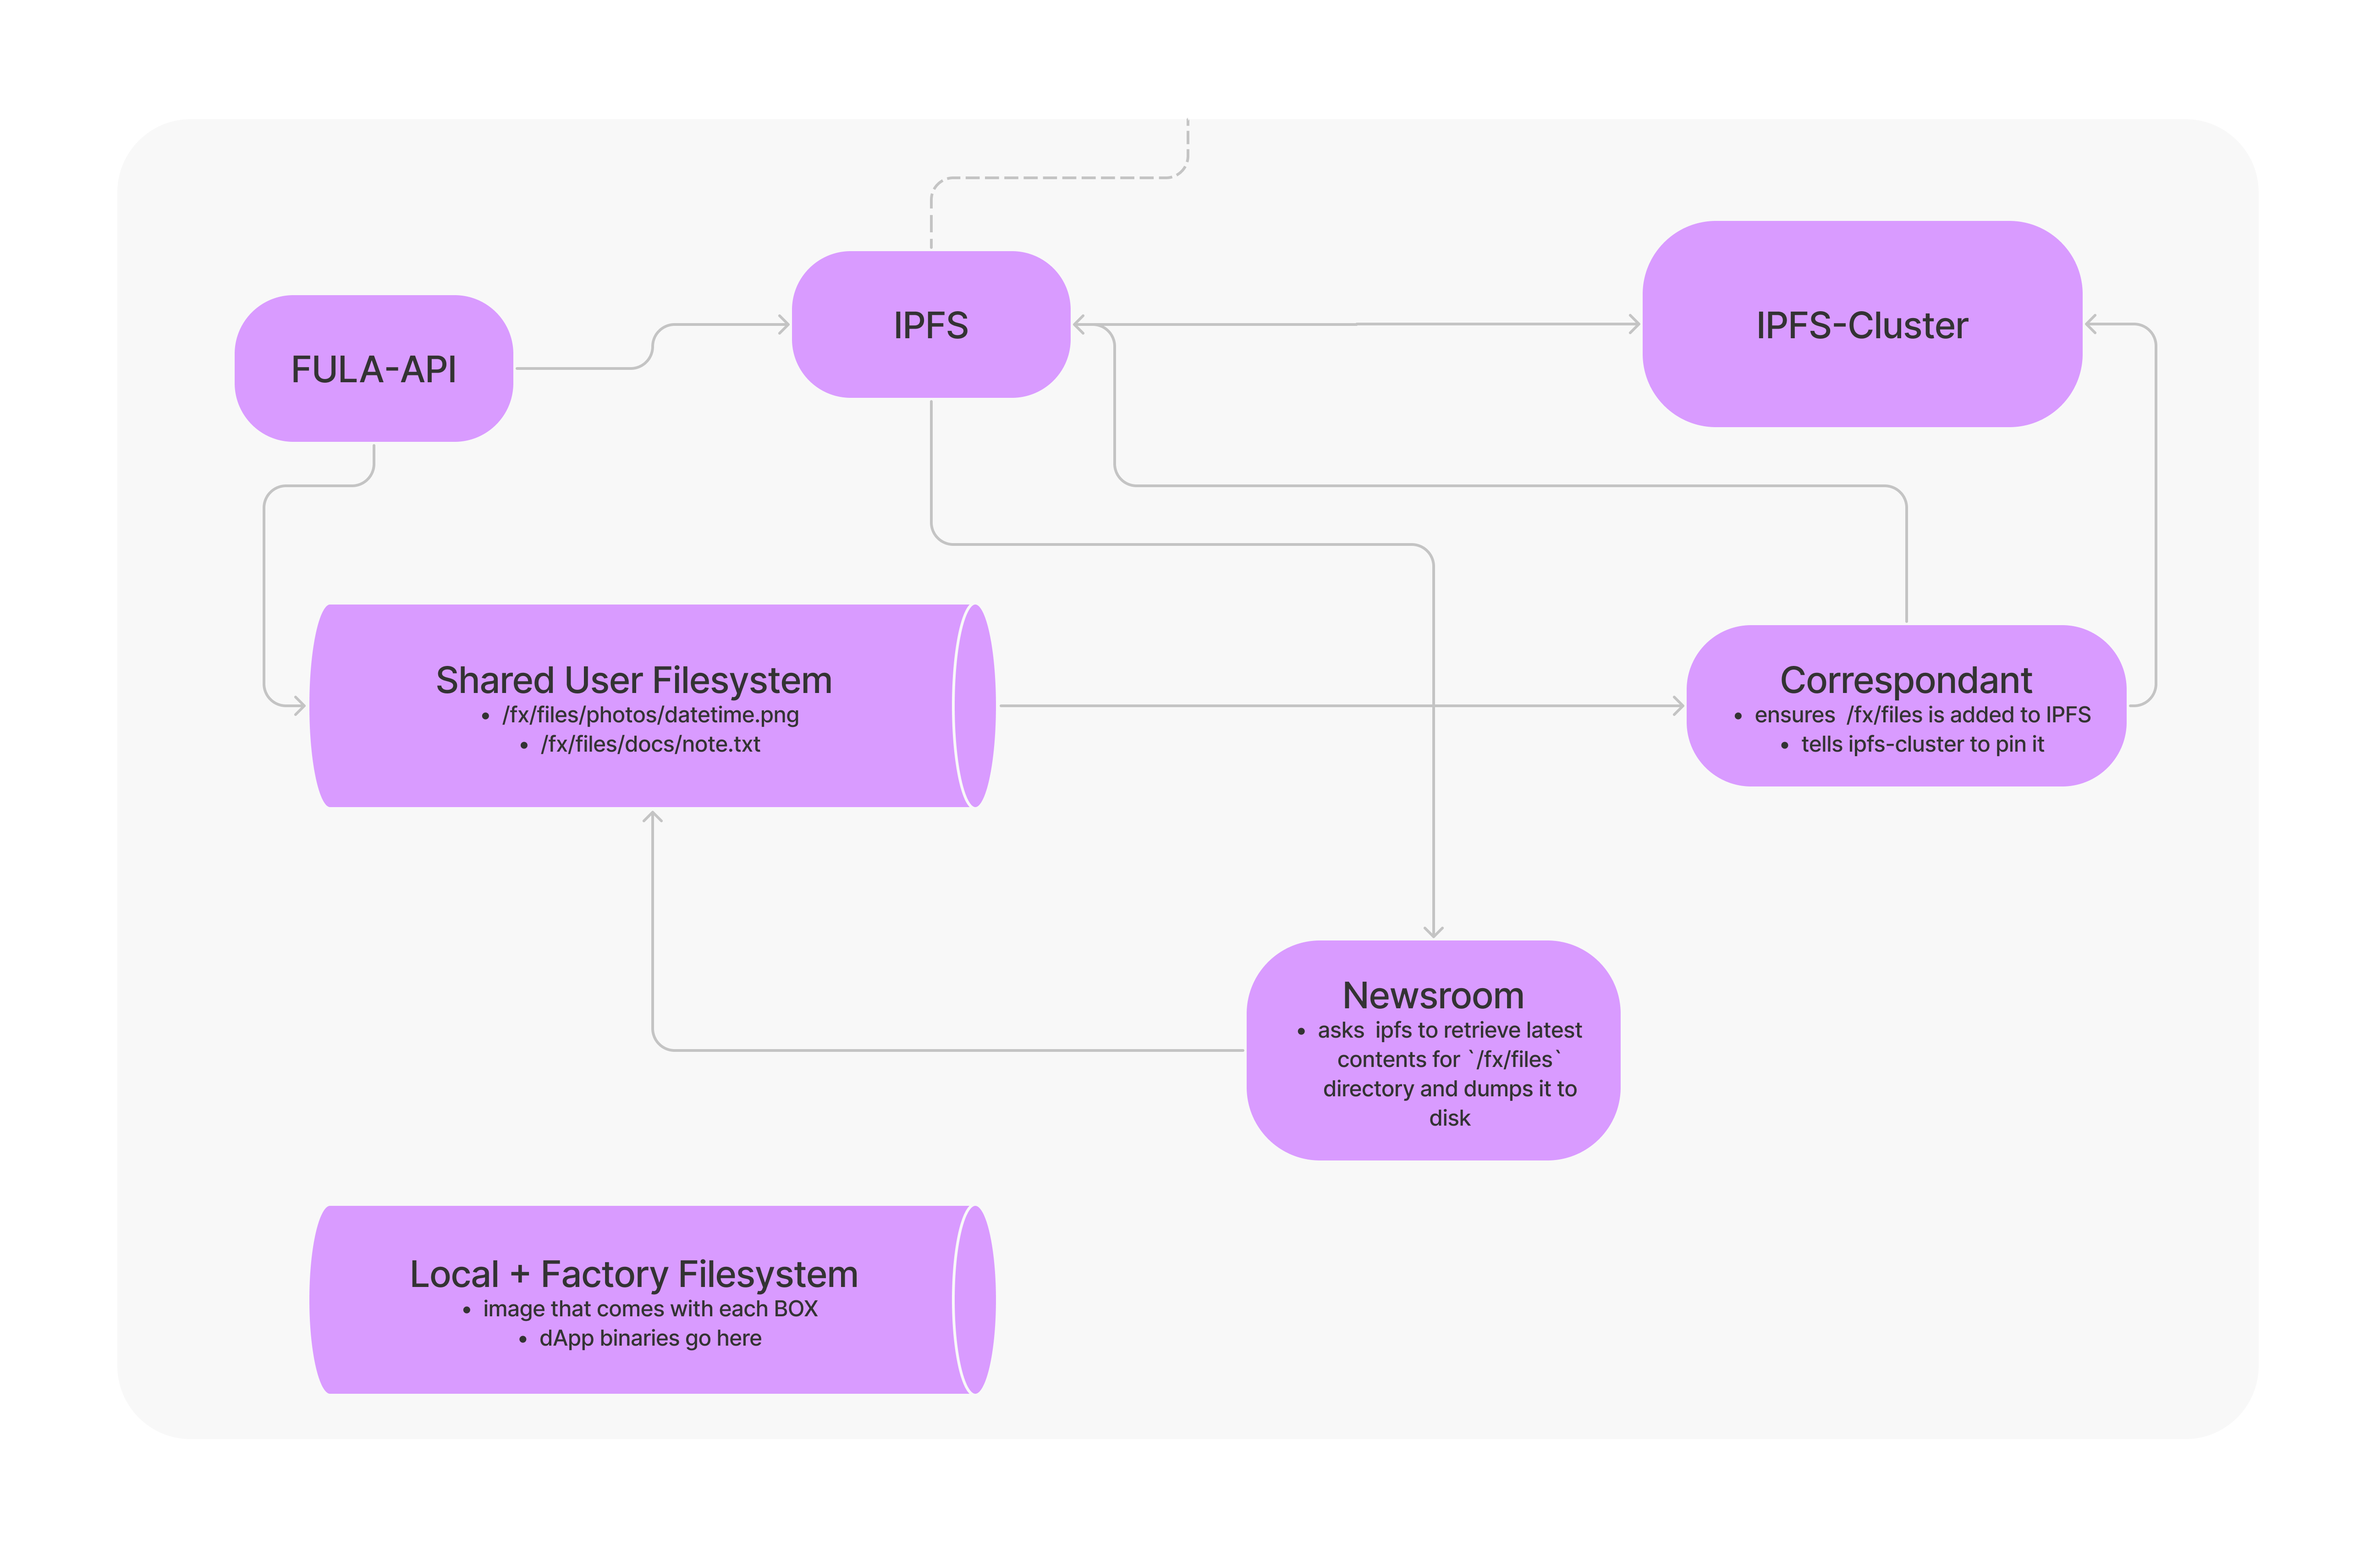
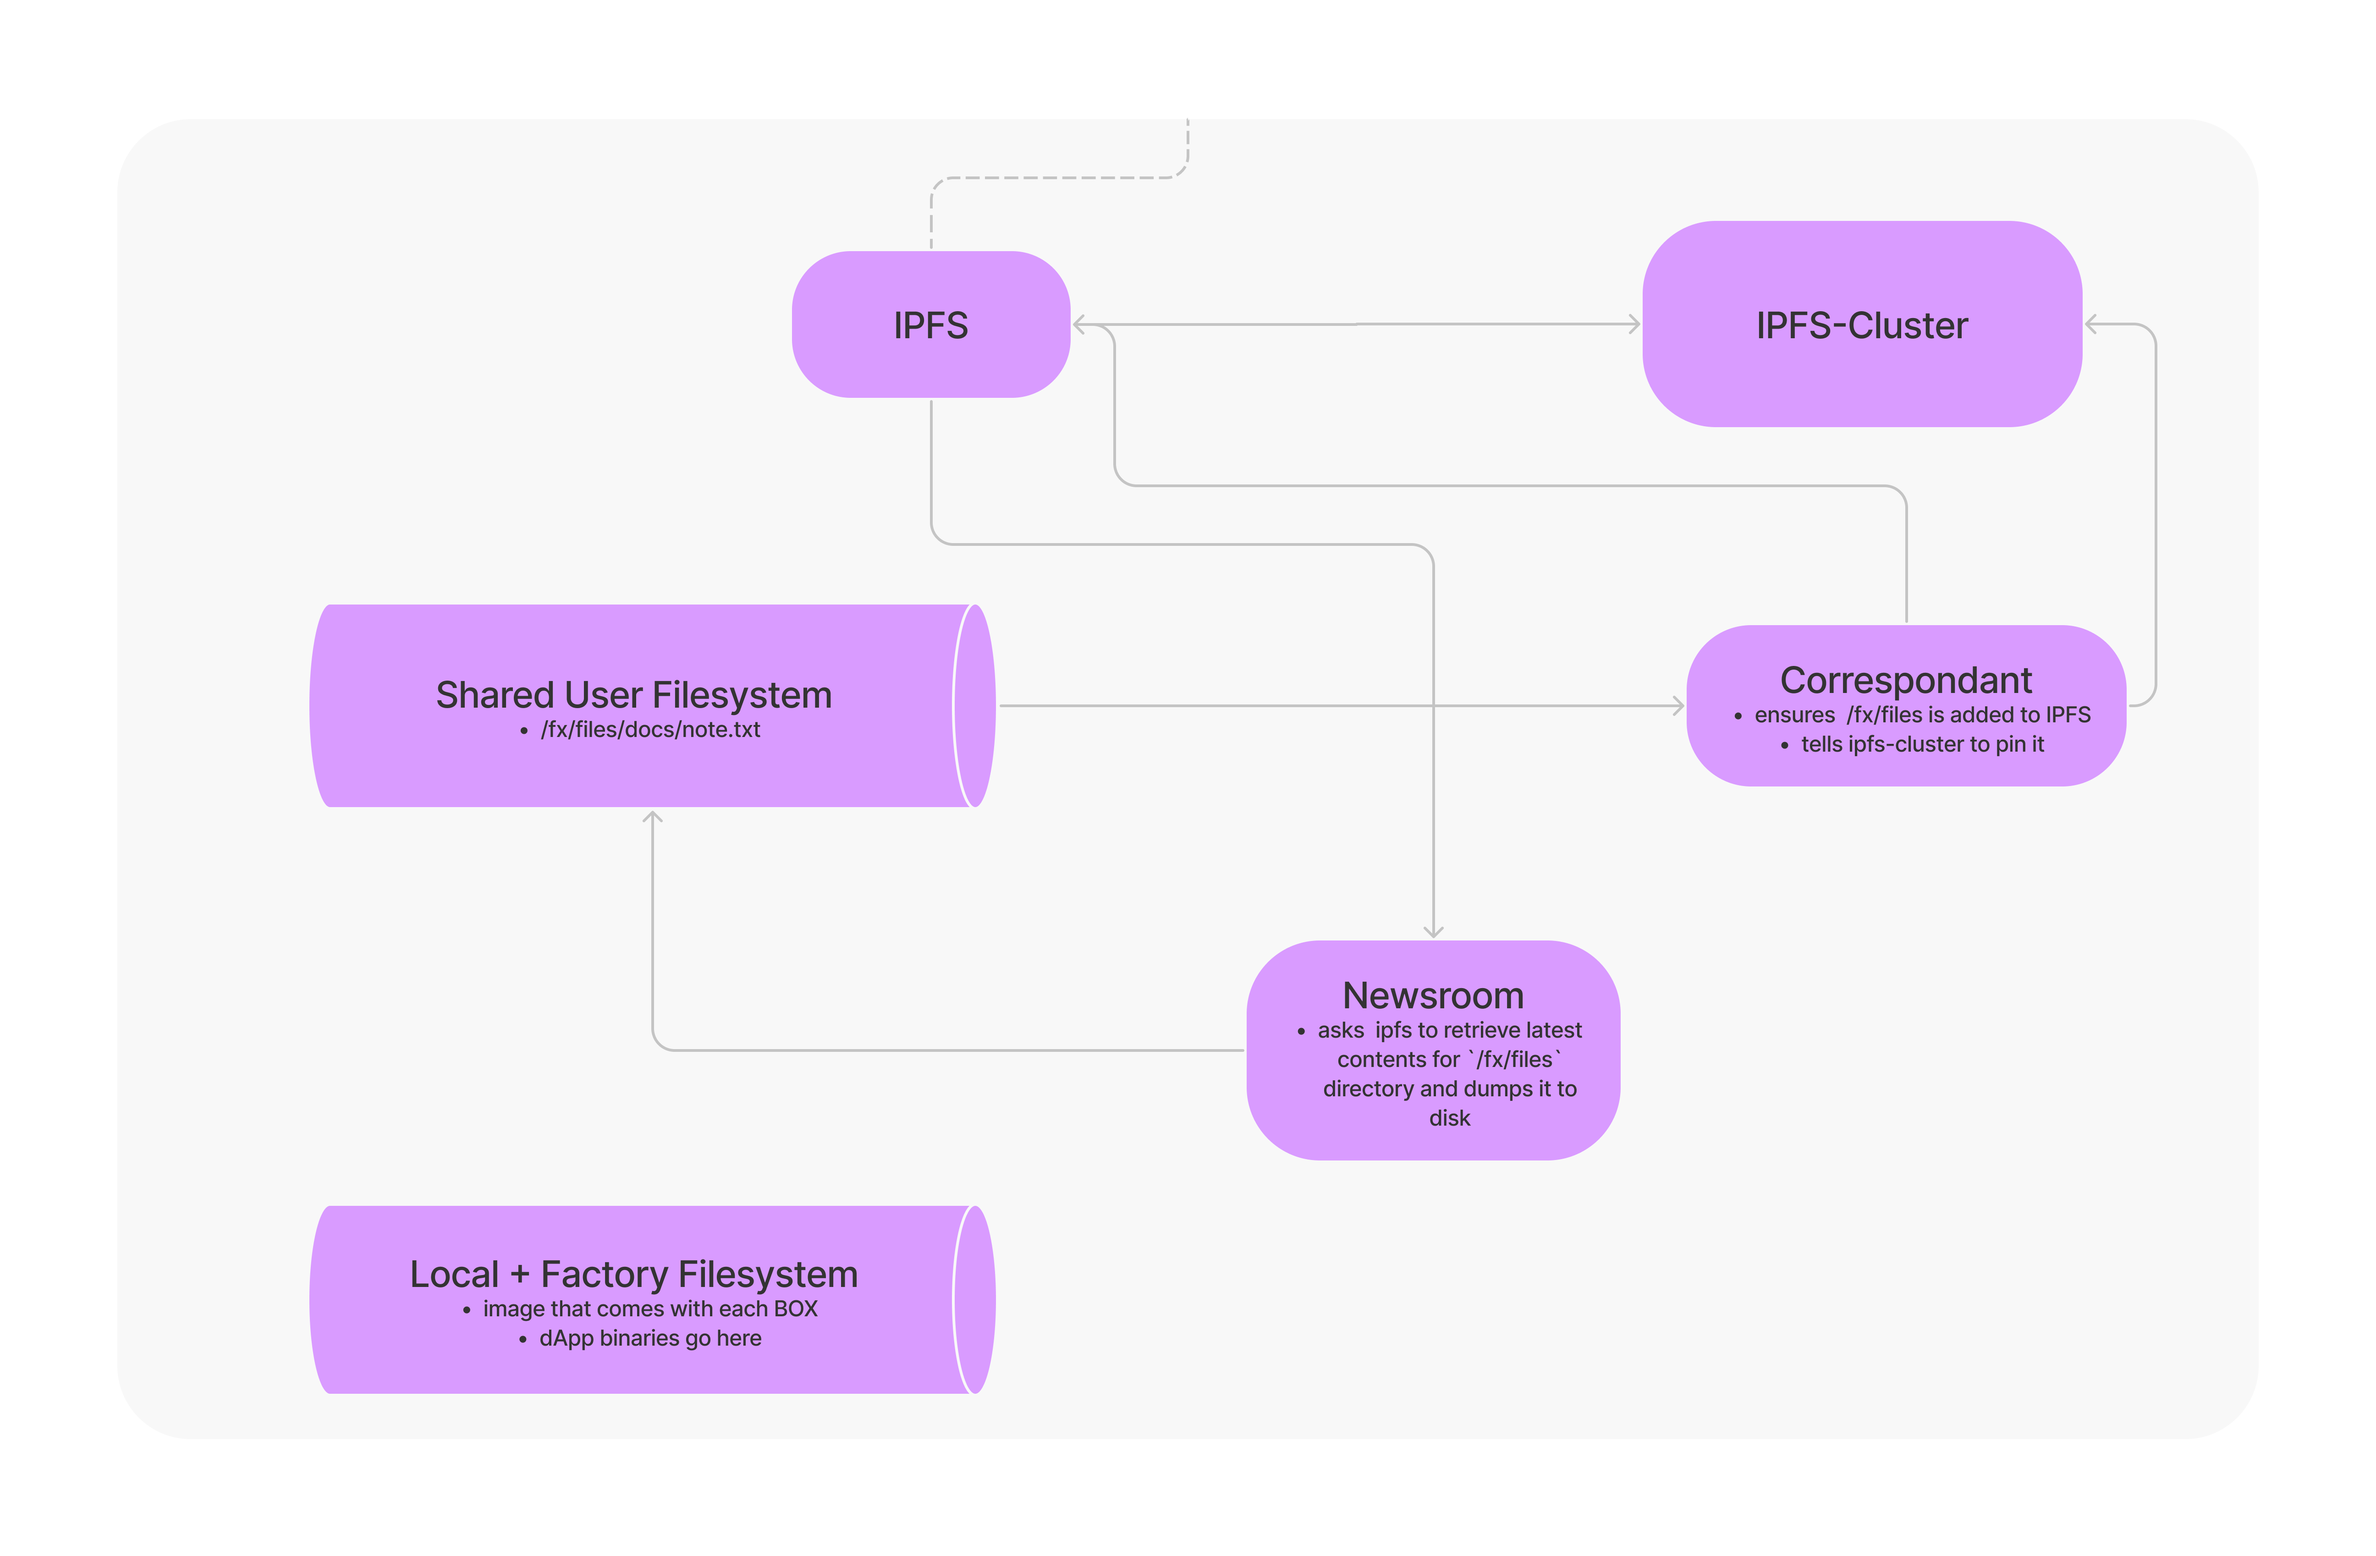
second draft of document syncing (#66)

Changed region(s): [[0.0938, 0.1873, 0.2188, 0.3122], [0.1875, 0.4371, 0.3438, 0.4996]]

diff --git a/docs/RFCs/document-syncing.md b/docs/RFCs/document-syncing.md
@@ -1,4 +1,4 @@
-# Document Syncing over IPFS-Cluster with a Correspondant and Newsroom
+# Document Syncing
 - Start Date: 2022-03-24
 - RFC PR: [functionland/docs/pull/61](https://github.com/functionland/docs/pull/61)
 - Functionland Issue: [functionland/docs/issues/58](https://github.com/functionland/docs/issues/58)
@@ -8,21 +8,15 @@
 
 ## Summary
 
-This RFC proposes usage of IPFS-Cluster in conjunction with two separate components on a BOX to sync files and folders across several different BOXes.
+This RFC proposes usage of `IPFS-Cluster` in conjunction with a `Correspondant` and `Newsroom` component to sync files and folders across several devices.
 
 ## Use Case
 
-A person owns several BOXes and they add a document to one of them.
+A BOX owner would like to sync the meeting notes on their desktop with other meeting participants in real time.
 
-The document immediately gets transferred over to the other BOX so that they can make use of it (ie/ perform CRUD operations on it) from either BOX.
+They run a command and provide instructions for other participants to download the document.
 
-The 'documents' being synced (for now) are:
-
-    * plaintext (eg/ UTF-8 encoded) files
-
-    * photos
-
-    * video
+Each participant is able to download and edit the meeting notes and see updates from others in real time.
 
 
 ## Out of Scope
@@ -34,9 +28,15 @@ The 'documents' being synced (for now) are:
 ## Pre-conditions
 [pre-conditions]: #pre-conditions
 
-* the owner has already authenticated themselves with each BOX
+* each participant's device in the meeting is accessible from the others
 
-* the fula-api is persisting data to a disk accessible by the correspondant and newsroom processes
+      EITHER
+
+      * they have a public static IP 
+
+      OR
+
+      * NAT hole punching works AND there are relays available to help establish connectivity
 
 ## Design Considerations
 
@@ -68,7 +68,7 @@ CRDT will be used because:
 
   * 'trusted peers' might be used in the future to provide access control
 
-  * peers will probably come and go frequently in the future when data is synced with external devices (ie/ owner's computer or phone)
+  * peers will probably come and go frequently (ie/ someone needs to drop from the meeting)
 
   * since we have full control over the document store, we can ensure the DAG is shallow (based on limitations of number of files in a directory)
 
@@ -119,8 +119,6 @@ In order to access ipfs-cluster-ctl and ipfs from the command line, the correspo
 
 A separate service will be defined for:
 
-  * fula-api
-
   * newsroom
 
   * correspondant
@@ -135,15 +133,9 @@ The docker setup for the IPFS components can be followed from the  [IPFS-Cluster
 
 The IPFS components should be listed as a dependency of the correspondant and newsroom.
 
-The correspondant and newsroom components should be listed as a dependency of the fula-api.
+## Future 
 
-## Drawbacks / Future Improvements
-
-The main drawback of this design is it will require redundant storage with IPFS and a flat file system.  A future improvement might be just to interact with IPFS and IPFS-Cluster for pinning directly from the fula-api.
-
-In that case there would be no need for both the `correspondent` or `newsroom` components on each BOX, however, they could still be utilized for desktop file/folder syncing.
-
-## Future Performance Optimizations
+### Performance Optimizations
 
 * a scheduler might be used to prioritize fula-api latency over syncing
 
@@ -155,13 +147,28 @@ In that case there would be no need for both the `correspondent` or `newsroom` c
 
   * this may be necessary for handling removal of files anyway
 
+### Connectivity Research
 
-## Future Possibilities
+The main goal is to remove the connectivity pre-condition from this use case so it will work from any device over the vast majority of network topologies.
+
+The following issues are related to this:
+
+  * [research: fula-client overcoming NAT to reach fula-api](https://github.com/functionland/docs/issues/28)
+
+  * [research: public/private relays availability](https://github.com/functionland/docs/issues/72)
+
+### Possibilities
 [future-possibilities]: #future-possibilities
 
-### Person-person Collaboration
+#### Data types
+
+Although this use case is focused on syncing plaintext (eg/ UTF-8 encoded) files it [could also](https://github.com/functionland/docs/issues/71) cover other documents that `IPFS` and `IPFS-Cluster` handles well out of the box such as photos and video.
+
+#### Person-person Collaboration
 
 With the addition of an authentication and ACL layer: 
   * two different BOX owners could share a document with each other and perform real-time edits on it.  They might add a third person as reviewer with read-only access
 
   * a group of people might create a shared album where certain members have the ability to upload photos and others are only allowed to view them (or vice versa)
+
+
